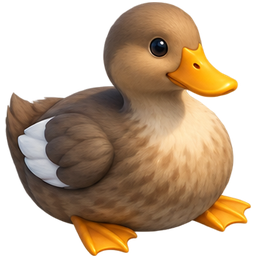
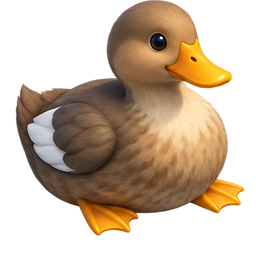
Add astronaut duck sprites (G03) and align animation frames
The model draws a duck's frames at slightly different spots in their
cells, so trimming each frame separately made ducks jump between frames.
The slicer now registers each frame row against the first row by
silhouette overlap and crops grouped sprites with one shared box.
Sitting and flying ducks are re-sliced with the fix.

diff --git a/tools/slice_grid.py b/tools/slice_grid.py
@@ -1,7 +1,9 @@
 """Slice raw generations from tools/raw/ into game sprites (see docs/Assets.md).
 
 Cell borders are placed in the emptiest column or row near each expected border, so the grid does not need to be
-pixel-exact. Each sprite is trimmed, scaled, and padded to its target size at the grid's anchor.
+pixel-exact. Animation frames (frame_rows grids) are lined up by the overlap of their silhouettes. Each sprite is
+trimmed (to one box shared by the whole grid for shared_frame grids), scaled, and padded to its target size at the
+grid's anchor.
 
     .venv/bin/python tools/slice_grid.py G01 G02
     .venv/bin/python tools/slice_grid.py --all
@@ -21,6 +23,8 @@ RAW = ROOT / "tools" / "raw"
 ALPHA_THRESHOLD = 16  # alpha values at or below this count as empty and are cleared (removes faint glow)
 ALPHA_SOLID = 250  # alpha values at or above this are made fully opaque (the model tops out just below 255)
 BORDER_SEARCH = 0.25  # how far from the expected border to search, as a fraction of the cell size
+REGISTER_REACH = 0.2  # how far frames may be shifted to line up, as a fraction of the cell size
+REGISTER_STEP = 4  # downsampling factor for the coarse frame alignment search
 
 Box = tuple[int, int, int, int]  # left, top, right, bottom
 
@@ -45,17 +49,79 @@ def cell_boxes(mask: np.ndarray, grid: Grid) -> list[Box]:
     return [(xs[col], ys[row], xs[col + 1], ys[row + 1]) for row in range(grid.rows) for col in range(grid.cols)]
 
 
-def trim(image: Image.Image, mask: np.ndarray, box: Box, name: str) -> Image.Image | None:
-    left, top, right, bottom = box
-    cell_mask = mask[top:bottom, left:right]
-    columns = np.flatnonzero(cell_mask.any(axis=0))
-    rows = np.flatnonzero(cell_mask.any(axis=1))
-    if not len(columns):
-        print(f"  warning: {name} is empty", file=sys.stderr)
-        return None
-    if columns[0] == 0 or rows[0] == 0 or columns[-1] == cell_mask.shape[1] - 1 or rows[-1] == cell_mask.shape[0] - 1:
-        print(f"  warning: {name} touches its cell edge and may be cut off", file=sys.stderr)
-    return image.crop((left + columns[0], top + rows[0], left + columns[-1] + 1, top + rows[-1] + 1))
+def cut_cells(image: Image.Image, grid: Grid) -> dict[Cell, Image.Image]:
+    """Return each non-empty cell's full cell image, warning about empty cells and cut-off content."""
+    mask = np.asarray(image)[..., 3] > 0
+    cells: dict[Cell, Image.Image] = {}
+    for cell, box in zip(grid.cells, cell_boxes(mask, grid)):
+        if cell is None:
+            continue
+        cell_image = image.crop(box)
+        content = cell_image.getbbox()
+        if content is None:
+            print(f"  warning: {cell.name} is empty", file=sys.stderr)
+            continue
+        if content[0] == 0 or content[1] == 0 or content[2] == cell_image.width or content[3] == cell_image.height:
+            print(f"  warning: {cell.name} touches its cell edge and may be cut off", file=sys.stderr)
+        cells[cell] = cell_image
+    return cells
+
+
+def silhouette(cell_image: Image.Image, shape: tuple[int, int], margin: int) -> np.ndarray:
+    """Return the cell's opaque pixels on an empty array of `shape`, offset by `margin` on each side."""
+    alpha = np.asarray(cell_image)[..., 3] > 0
+    padded = np.zeros(shape, dtype=bool)
+    padded[margin:margin + alpha.shape[0], margin:margin + alpha.shape[1]] = alpha
+    return padded
+
+
+def overlap(reference: np.ndarray, moving: np.ndarray, dx: int, dy: int) -> float:
+    shifted = np.roll(moving, (dy, dx), axis=(0, 1))
+    return (reference & shifted).sum() / max(1, (reference | shifted).sum())
+
+
+def best_offset(reference: np.ndarray, moving: np.ndarray, center: tuple[int, int], reach: int) -> tuple[int, int]:
+    steps = range(-reach, reach + 1)
+    candidates = [(center[0] + dx, center[1] + dy) for dx in steps for dy in steps]
+    return max(candidates, key=lambda offset: overlap(reference, moving, *offset))
+
+
+def register(reference: Image.Image, moving: Image.Image) -> tuple[int, int]:
+    """Return the (dx, dy) shift that best lines up `moving`'s silhouette with `reference`'s."""
+    margin = round(max(reference.width, reference.height) * REGISTER_REACH)
+    shape = (max(reference.height, moving.height) + 2 * margin, max(reference.width, moving.width) + 2 * margin)
+    reference_mask, moving_mask = silhouette(reference, shape, margin), silhouette(moving, shape, margin)
+    step = REGISTER_STEP
+    coarse = best_offset(reference_mask[::step, ::step], moving_mask[::step, ::step], (0, 0), margin // step)
+    return best_offset(reference_mask, moving_mask, (coarse[0] * step, coarse[1] * step), step)
+
+
+def frame_offsets(grid: Grid, cells: dict[Cell, Image.Image]) -> dict[Cell, tuple[int, int]]:
+    """Line up each row's frame with the first row's frame of the same column."""
+    offsets = dict.fromkeys(cells, (0, 0))
+    for col in range(grid.cols):
+        column = [grid.cells[row * grid.cols + col] for row in range(grid.rows)]
+        reference = column[0]
+        for cell in column[1:]:
+            if reference in cells and cell in cells:
+                offsets[cell] = register(cells[reference], cells[cell])
+    return offsets
+
+
+def crop_to_shared_box(cells: dict[Cell, Image.Image], offsets: dict[Cell, tuple[int, int]]) -> dict[Cell, Image.Image]:
+    """Shift every cell by its offset onto one canvas size, then crop all of them with one shared box."""
+    margin = max(max(abs(dx), abs(dy)) for dx, dy in offsets.values())
+    size = (max(image.width for image in cells.values()) + 2 * margin,
+            max(image.height for image in cells.values()) + 2 * margin)
+    placed = {}
+    for cell, image in cells.items():
+        canvas = Image.new("RGBA", size)
+        canvas.paste(image, (margin + offsets[cell][0], margin + offsets[cell][1]))
+        placed[cell] = canvas
+    boxes = [image.getbbox() for image in placed.values()]
+    shared = (min(box[0] for box in boxes), min(box[1] for box in boxes),
+              max(box[2] for box in boxes), max(box[3] for box in boxes))
+    return {cell: image.crop(shared) for cell, image in placed.items()}
 
 
 def fit_scale(sprite: Image.Image, target: tuple[int, int]) -> float:
@@ -83,21 +149,16 @@ def clean_alpha(image: Image.Image) -> Image.Image:
 
 
 def slice_sprites(grid: Grid, image: Image.Image) -> dict[str, Image.Image]:
-    image = clean_alpha(image)
-    mask = np.asarray(image)[..., 3] > 0
-    sprites: dict[Cell, Image.Image] = {}
-    for cell, box in zip(grid.cells, cell_boxes(mask, grid)):
-        sprite = trim(image, mask, box, cell.name) if cell else None
-        if sprite:
-            sprites[cell] = sprite
+    cells = cut_cells(clean_alpha(image), grid)
+    if grid.shared_frame:
+        offsets = frame_offsets(grid, cells) if grid.frame_rows else dict.fromkeys(cells, (0, 0))
+        sprites = crop_to_shared_box(cells, offsets)
+    else:
+        sprites = {cell: cell_image.crop(cell_image.getbbox()) for cell, cell_image in cells.items()}
     if grid.size is None:
         return {cell.name: sprite for cell, sprite in sprites.items()}
-
-    scales = {cell: fit_scale(sprite, cell.size or grid.size) for cell, sprite in sprites.items()}
-    if grid.uniform_scale:
-        smallest = min(scales.values())
-        scales = dict.fromkeys(scales, smallest)
-    return {cell.name: place(sprite, scales[cell], cell.size or grid.size, grid) for cell, sprite in sprites.items()}
+    return {cell.name: place(sprite, fit_scale(sprite, cell.size or grid.size), cell.size or grid.size, grid)
+            for cell, sprite in sprites.items()}
 
 
 def cover(image: Image.Image, size: tuple[int, int]) -> Image.Image:

diff --git a/tools/asset_grids.py b/tools/asset_grids.py
@@ -25,7 +25,8 @@ class Grid:
     size: tuple[int, int] | None  # None = keep the sliced size
     anchor: str = "bottom"  # "bottom" or "center"
     padded: bool = True  # pad to `size` at the anchor, or only scale to fit inside it
-    uniform_scale: bool = False  # scale all cells by the same factor (keeps relative sizes)
+    shared_frame: bool = False  # crop every cell with one shared box, so sizes and positions match
+    frame_rows: bool = False  # each column is one subject and each row one of its animation frames
     opaque: bool = False  # level background: no grid, cropped to fill `size`
 
     @property
@@ -74,16 +75,16 @@ GRIDS = (
     Grid("G01", "3:2", 2, 3,
          f"The five ducks from the reference image, re-rendered sitting in the same pose. {DUCK_RULES}",
          tuple(Cell(f"{color}_sit", f"{label}, sitting") for color, label in DUCKS) + (None,),
-         "assets/ducks", (256, 256), uniform_scale=True),
+         "assets/ducks", (256, 256), shared_frame=True),
     Grid("G02", "21:9", 2, 5,
          f"Flying ducks seen from the side, two wing-flap frames per duck. {DUCK_RULES}",
          _duck_frames("fly", ("wings up", "wings down"), "flying"),
-         "assets/ducks", (256, 256), "center", uniform_scale=True),
+         "assets/ducks", (256, 256), "center", shared_frame=True, frame_rows=True),
     Grid("G03", "21:9", 2, 5,
          f"Astronaut ducks floating in space: white space suit, round glass helmet with the bill clearly visible "
          f"through it, and a small chest patch in the duck's color. Two frames per duck. {DUCK_RULES}",
          _duck_frames("astro", ("wings and feet tucked in", "wings and feet spread out"), "astronaut"),
-         "assets/ducks", (256, 256), "center", uniform_scale=True),
+         "assets/ducks", (256, 256), "center", shared_frame=True, frame_rows=True),
     Grid("G04", "4:3", 3, 4,
          "Eggs and hatching frames. Each row is one egg; the columns are: whole egg upright, the same egg with a "
          "zigzag crack around the middle, the top half of the shell alone with a jagged lower edge, the bottom "
@@ -96,7 +97,7 @@ GRIDS = (
                                            ("cracked", "with a zigzag crack around the middle"),
                                            ("shell_top", "top half of the shell only"),
                                            ("shell_bottom", "bottom half of the shell only"))),
-         "assets/eggs", (128, 128), uniform_scale=True),
+         "assets/eggs", (128, 128), shared_frame=True),
     Grid("G05", "3:2", 1, 1,
          "One fluffy white cloud exactly like the foreground clouds in the reference image, with a fairly flat "
          "bottom a duck can sit on.",
